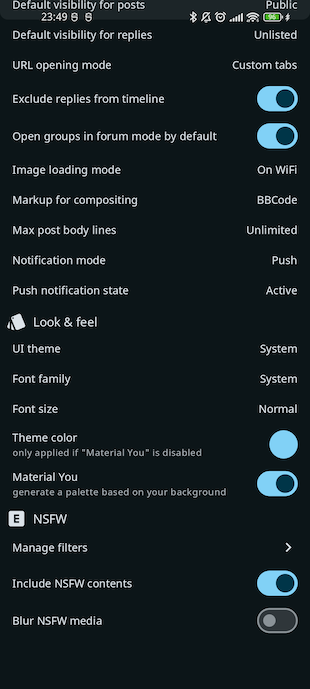
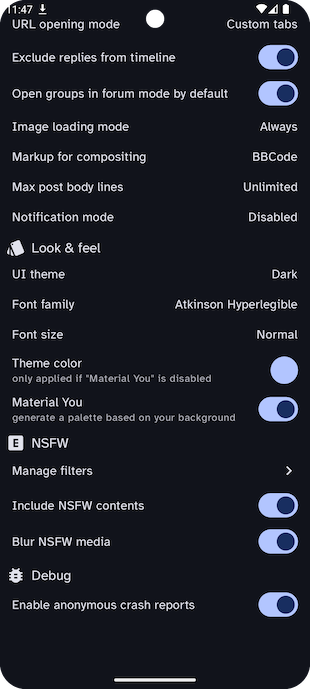
feat: make crash reporting opt-out by default; add option to enable in settings (#494)
* update l10n

* update user manual

* update build scripts

* update CrashReportManager to have conditional initialization

* add option to enable/disable crash reports in settings screen

diff --git a/feature/settings/src/commonMain/kotlin/com/livefast/eattrash/raccoonforfriendica/feature/settings/SettingsViewModel.kt b/feature/settings/src/commonMain/kotlin/com/livefast/eattrash/raccoonforfriendica/feature/settings/SettingsViewModel.kt
@@ -11,6 +11,7 @@ import com.livefast.eattrash.raccoonforfriendica.core.appearance.repository.Them
 import com.livefast.eattrash.raccoonforfriendica.core.appearance.theme.ColorSchemeProvider
 import com.livefast.eattrash.raccoonforfriendica.core.architecture.DefaultMviModel
 import com.livefast.eattrash.raccoonforfriendica.core.l10n.L10nManager
+import com.livefast.eattrash.raccoonforfriendica.core.utils.debug.CrashReportManager
 import com.livefast.eattrash.raccoonforfriendica.domain.content.data.TimelineType
 import com.livefast.eattrash.raccoonforfriendica.domain.content.data.Visibility
 import com.livefast.eattrash.raccoonforfriendica.domain.content.data.toInt
@@ -44,6 +45,7 @@ class SettingsViewModel(
     private val circlesRepository: CirclesRepository,
     private val pullNotificationManager: PullNotificationManager,
     private val pushNotificationManager: PushNotificationManager,
+    private val crashReportManager: CrashReportManager,
 ) : DefaultMviModel<SettingsMviModel.Intent, SettingsMviModel.State, SettingsMviModel.Effect>(
         initialState = SettingsMviModel.State(),
     ),
@@ -128,6 +130,15 @@ class SettingsViewModel(
                     updateState {
                         it.copy(themeColor = seedColor)
                     }
+                }.launchIn(this)
+
+            crashReportManager.enabled
+                .onEach { value ->
+                    updateState { it.copy(crashReportEnabled = value) }
+                }.launchIn(this)
+            crashReportManager.restartRequired
+                .onEach { value ->
+                    updateState { it.copy(crashReportRestartRequired = value) }
                 }.launchIn(this)
 
             settingsRepository.current
@@ -302,6 +313,9 @@ class SettingsViewModel(
                     selectPushDistributor(intent.value)
                 }
             }
+
+            is SettingsMviModel.Intent.ChangeCrashReportEnabled ->
+                changeCrashReportEnabled(intent.value)
         }
     }
 
@@ -431,5 +445,13 @@ class SettingsViewModel(
     private suspend fun selectPushDistributor(distributor: String) {
         pushNotificationManager.saveDistributor(distributor)
         pushNotificationManager.enable()
+    }
+
+    private fun changeCrashReportEnabled(value: Boolean) {
+        if (value) {
+            crashReportManager.enable()
+        } else {
+            crashReportManager.disable()
+        }
     }
 }

diff --git a/core/utils/src/iosMain/kotlin/com/livefast/eattrash/raccoonforfriendica/core/utils/debug/DefaultCrashReportManager.kt b/core/utils/src/iosMain/kotlin/com/livefast/eattrash/raccoonforfriendica/core/utils/debug/DefaultCrashReportManager.kt
@@ -1,11 +1,40 @@
 package com.livefast.eattrash.raccoonforfriendica.core.utils.debug
 
+import com.livefast.eattrash.raccoonforfriendica.core.preferences.TemporaryKeyStore
 import io.sentry.kotlin.multiplatform.Sentry
 import io.sentry.kotlin.multiplatform.protocol.UserFeedback
+import kotlinx.coroutines.flow.MutableStateFlow
+import kotlinx.coroutines.flow.update
 import platform.Foundation.NSBundle
 
-internal class DefaultCrashReportManager : CrashReportManager {
+internal class DefaultCrashReportManager(
+    private val keyStore: TemporaryKeyStore,
+) : CrashReportManager {
+    override val enabled = MutableStateFlow(false)
+    override val restartRequired = MutableStateFlow(false)
+
+    init {
+        enabled.update {
+            keyStore[KEY_CRASH_REPORT_ENABLED, false]
+        }
+    }
+
+    override fun enable() {
+        keyStore.save(KEY_CRASH_REPORT_ENABLED, true)
+        enabled.update { true }
+        restartRequired.update { true }
+    }
+
+    override fun disable() {
+        keyStore.save(KEY_CRASH_REPORT_ENABLED, false)
+        enabled.update { false }
+        restartRequired.update { true }
+    }
+
     override fun initialize() {
+        if (!enabled.value) {
+            return
+        }
         val dict = NSBundle.mainBundle.infoDictionary
         Sentry.init { options ->
             options.dsn = dict?.get("SENTRY_DSN") as? String ?: ""
@@ -17,6 +46,9 @@ internal class DefaultCrashReportManager : CrashReportManager {
         comment: String,
         email: String?,
     ) {
+        if (!enabled.value) {
+            return
+        }
         val eventId = Sentry.captureMessage(tag.toMessageTag())
         val feedback =
             UserFeedback(eventId).apply {
@@ -24,5 +56,9 @@ internal class DefaultCrashReportManager : CrashReportManager {
                 this.email = email
             }
         Sentry.captureUserFeedback(feedback)
+    }
+
+    companion object {
+        private const val KEY_CRASH_REPORT_ENABLED = "CrashReportEnabled"
     }
 }

diff --git a/core/utils/src/androidMain/kotlin/com/livefast/eattrash/raccoonforfriendica/core/utils/debug/DefaultCrashReportManager.kt b/core/utils/src/androidMain/kotlin/com/livefast/eattrash/raccoonforfriendica/core/utils/debug/DefaultCrashReportManager.kt
@@ -1,14 +1,42 @@
 package com.livefast.eattrash.raccoonforfriendica.core.utils.debug
 
 import android.content.Context
+import com.livefast.eattrash.raccoonforfriendica.core.preferences.TemporaryKeyStore
 import com.livefast.eattrash.raccoonforfriendica.core.utils.R
 import io.sentry.kotlin.multiplatform.Sentry
 import io.sentry.kotlin.multiplatform.protocol.UserFeedback
+import kotlinx.coroutines.flow.MutableStateFlow
+import kotlinx.coroutines.flow.update
 
 internal class DefaultCrashReportManager(
     private val context: Context,
+    private val keyStore: TemporaryKeyStore,
 ) : CrashReportManager {
+    override val enabled = MutableStateFlow(false)
+    override val restartRequired = MutableStateFlow(false)
+
+    init {
+        enabled.update {
+            keyStore[KEY_CRASH_REPORT_ENABLED, false]
+        }
+    }
+
+    override fun enable() {
+        keyStore.save(KEY_CRASH_REPORT_ENABLED, true)
+        enabled.update { true }
+        restartRequired.update { true }
+    }
+
+    override fun disable() {
+        keyStore.save(KEY_CRASH_REPORT_ENABLED, false)
+        enabled.update { false }
+        restartRequired.update { true }
+    }
+
     override fun initialize() {
+        if (!enabled.value) {
+            return
+        }
         Sentry.init { options ->
             options.dsn = context.getString(R.string.sentry_dsn)
         }
@@ -26,6 +54,9 @@ internal class DefaultCrashReportManager(
         comment: String,
         email: String?,
     ) {
+        if (!enabled.value) {
+            return
+        }
         val eventId = Sentry.captureMessage(tag.toMessageTag())
         val feedback =
             UserFeedback(eventId).apply {
@@ -33,5 +64,9 @@ internal class DefaultCrashReportManager(
                 this.email = email
             }
         Sentry.captureUserFeedback(feedback)
+    }
+
+    companion object {
+        private const val KEY_CRASH_REPORT_ENABLED = "CrashReportEnabled"
     }
 }

diff --git a/feature/settings/src/commonMain/kotlin/com/livefast/eattrash/raccoonforfriendica/feature/settings/SettingsScreen.kt b/feature/settings/src/commonMain/kotlin/com/livefast/eattrash/raccoonforfriendica/feature/settings/SettingsScreen.kt
@@ -12,6 +12,7 @@ import androidx.compose.foundation.shape.CircleShape
 import androidx.compose.foundation.verticalScroll
 import androidx.compose.material.icons.Icons
 import androidx.compose.material.icons.automirrored.filled.ArrowBack
+import androidx.compose.material.icons.filled.BugReport
 import androidx.compose.material.icons.filled.Explicit
 import androidx.compose.material.icons.filled.Settings
 import androidx.compose.material.icons.filled.Style
@@ -335,6 +336,23 @@ class SettingsScreen : Screen {
                             value = uiState.blurNsfw,
                             onValueChanged = {
                                 model.reduce(SettingsMviModel.Intent.ChangeBlurNsfw(it))
+                            },
+                        )
+                        SettingsHeader(
+                            icon = Icons.Default.BugReport,
+                            title = LocalStrings.current.settingsSectionDebug,
+                        )
+                        SettingsSwitchRow(
+                            title = LocalStrings.current.settingsItemCrashReportEnabled,
+                            subtitle =
+                                if (uiState.crashReportRestartRequired) {
+                                    LocalStrings.current.messageRestartToApplyChanges
+                                } else {
+                                    null
+                                },
+                            value = uiState.crashReportEnabled,
+                            onValueChanged = {
+                                model.reduce(SettingsMviModel.Intent.ChangeCrashReportEnabled(it))
                             },
                         )
 

diff --git a/feature/settings/src/commonMain/kotlin/com/livefast/eattrash/raccoonforfriendica/feature/settings/SettingsMviModel.kt b/feature/settings/src/commonMain/kotlin/com/livefast/eattrash/raccoonforfriendica/feature/settings/SettingsMviModel.kt
@@ -101,6 +101,10 @@ interface SettingsMviModel :
         data class SelectPushDistributor(
             val value: String,
         ) : Intent
+
+        data class ChangeCrashReportEnabled(
+            val value: Boolean,
+        ) : Intent
     }
 
     data class State(
@@ -134,6 +138,8 @@ interface SettingsMviModel :
         val backgroundNotificationCheckInterval: Duration? = null,
         val availablePushDistributors: List<String> = emptyList(),
         val imageLoadingMode: ImageLoadingMode = ImageLoadingMode.Always,
+        val crashReportEnabled: Boolean = false,
+        val crashReportRestartRequired: Boolean = false,
     )
 
     sealed interface Effect

diff --git a/core/l10n/src/commonMain/kotlin/com/livefast/eattrash/raccoonforfriendica/core/l10n/messages/DeStrings.kt b/core/l10n/src/commonMain/kotlin/com/livefast/eattrash/raccoonforfriendica/core/l10n/messages/DeStrings.kt
@@ -441,4 +441,7 @@ internal val DeStrings =
         override val imageLoadingModeOnWiFi = "Im WiFi"
         override val messageReplyVisibilityGreaterThanParentError =
             "Sie veröffentlichen eine Antwort mit einer breiteren Sichtbarkeit als der ursprüngliche Beitrag"
+        override val settingsItemCrashReportEnabled = "Anonyme Absturzberichte aktivieren"
+        override val messageRestartToApplyChanges =
+            "Bitte starten Sie die Anwendung neu, um die Änderungen zu übernehmen"
     }

diff --git a/core/l10n/src/commonMain/kotlin/com/livefast/eattrash/raccoonforfriendica/core/l10n/messages/FrStrings.kt b/core/l10n/src/commonMain/kotlin/com/livefast/eattrash/raccoonforfriendica/core/l10n/messages/FrStrings.kt
@@ -446,4 +446,7 @@ internal val FrStrings =
         override val imageLoadingModeOnWiFi = "En WiFi"
         override val messageReplyVisibilityGreaterThanParentError =
             "Vous publiez une réponse dont la visibilité est plus large que celle du message original"
+        override val settingsItemCrashReportEnabled = "Activer les rapports de crash anonymes"
+        override val messageRestartToApplyChanges =
+            "Veuillez redémarrer l'application pour appliquer les changements"
     }

diff --git a/core/l10n/src/commonMain/kotlin/com/livefast/eattrash/raccoonforfriendica/core/l10n/messages/ItStrings.kt b/core/l10n/src/commonMain/kotlin/com/livefast/eattrash/raccoonforfriendica/core/l10n/messages/ItStrings.kt
@@ -441,4 +441,7 @@ internal val ItStrings =
         override val imageLoadingModeOnWiFi = "In WiFi"
         override val messageReplyVisibilityGreaterThanParentError =
             "Stai pubblicando una risposta con visibilità maggiore a quella del post originale"
+        override val settingsItemCrashReportEnabled = "Abilita segnalazioni anonime arresti anomali"
+        override val messageRestartToApplyChanges =
+            "Riavviare l'applicazione per applicare le modifiche"
     }

diff --git a/core/l10n/src/commonMain/kotlin/com/livefast/eattrash/raccoonforfriendica/core/l10n/messages/PtStrings.kt b/core/l10n/src/commonMain/kotlin/com/livefast/eattrash/raccoonforfriendica/core/l10n/messages/PtStrings.kt
@@ -446,4 +446,6 @@ internal val PtStrings =
         override val imageLoadingModeOnWiFi = "Em WiFi"
         override val messageReplyVisibilityGreaterThanParentError =
             "Está a publicar uma resposta com uma visibilidade mais ampla do que a publicação original"
+        override val settingsItemCrashReportEnabled = "Permitir relatórios anónimos de acidentes"
+        override val messageRestartToApplyChanges = "Reinicie a aplicação para aplicar as alterações"
     }

diff --git a/core/l10n/src/commonMain/kotlin/com/livefast/eattrash/raccoonforfriendica/core/l10n/messages/EsStrings.kt b/core/l10n/src/commonMain/kotlin/com/livefast/eattrash/raccoonforfriendica/core/l10n/messages/EsStrings.kt
@@ -441,4 +441,7 @@ internal val EsStrings =
         override val imageLoadingModeOnWiFi = "En WiFi"
         override val messageReplyVisibilityGreaterThanParentError =
             "Estás publicando una respuesta con mayor visibilidad que el mensaje original"
+        override val settingsItemCrashReportEnabled = "Activar los informes anónimos de fallos"
+        override val messageRestartToApplyChanges =
+            "Reinicie la aplicación para aplicar los cambios"
     }

diff --git a/core/l10n/src/commonMain/kotlin/com/livefast/eattrash/raccoonforfriendica/core/l10n/messages/PlStrings.kt b/core/l10n/src/commonMain/kotlin/com/livefast/eattrash/raccoonforfriendica/core/l10n/messages/PlStrings.kt
@@ -439,4 +439,7 @@ internal val PlStrings =
         override val imageLoadingModeOnWiFi = "W sieci WiFi"
         override val messageReplyVisibilityGreaterThanParentError =
             "Publikujesz odpowiedź o szerszym zasięgu niż oryginalny post"
+        override val settingsItemCrashReportEnabled = "Włącz anonimowe raporty o awariach"
+        override val messageRestartToApplyChanges =
+            "Uruchom ponownie aplikację, aby zastosować zmiany"
     }

diff --git a/core/l10n/src/commonMain/kotlin/com/livefast/eattrash/raccoonforfriendica/core/l10n/messages/DefaultStrings.kt b/core/l10n/src/commonMain/kotlin/com/livefast/eattrash/raccoonforfriendica/core/l10n/messages/DefaultStrings.kt
@@ -438,4 +438,6 @@ internal open class DefaultStrings : Strings {
     override val imageLoadingModeOnWiFi = "In WiFi"
     override val messageReplyVisibilityGreaterThanParentError =
         "You are publishing a reply with a broader visibility than the original post"
+    override val settingsItemCrashReportEnabled = "Enable anonymous crash reports"
+    override val messageRestartToApplyChanges = "Please restart the app to apply changes"
 }
